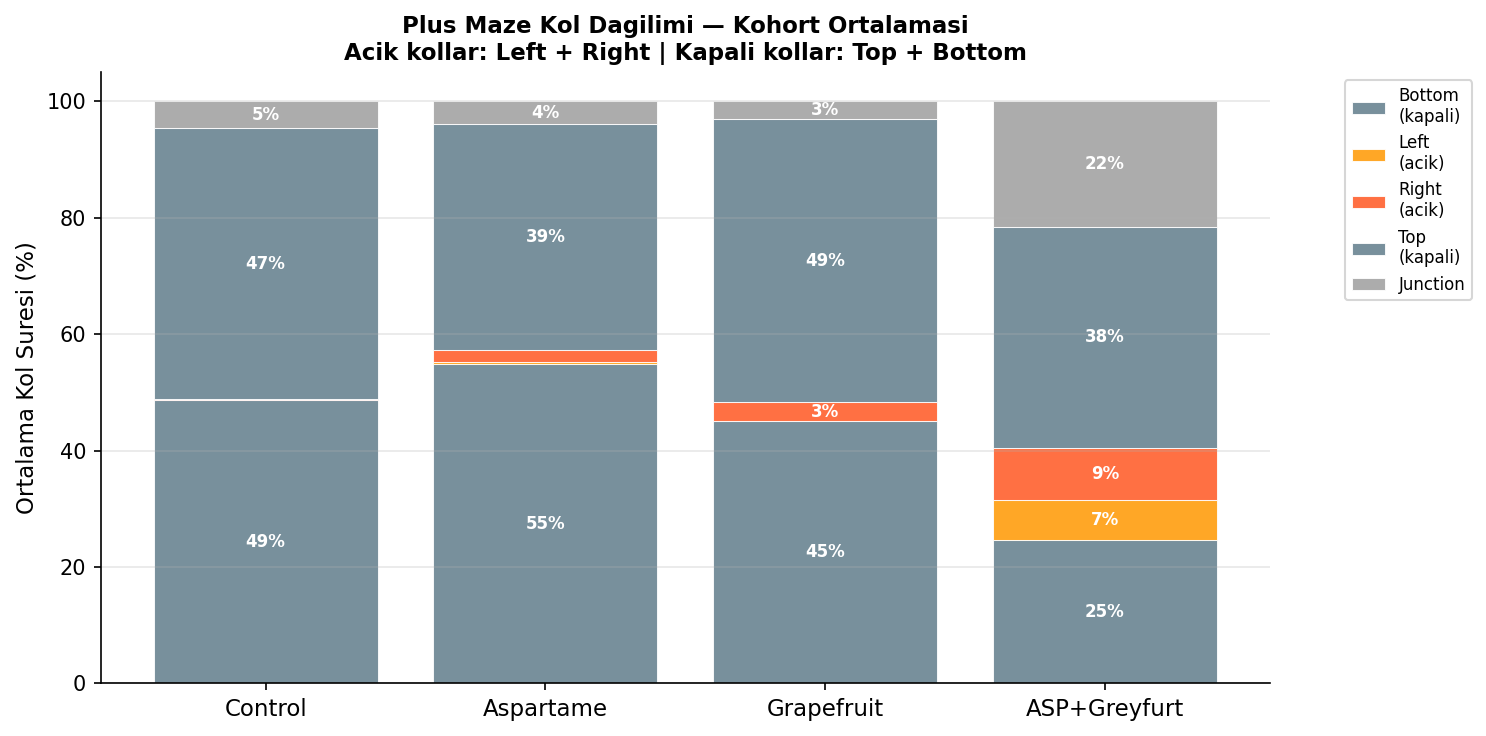
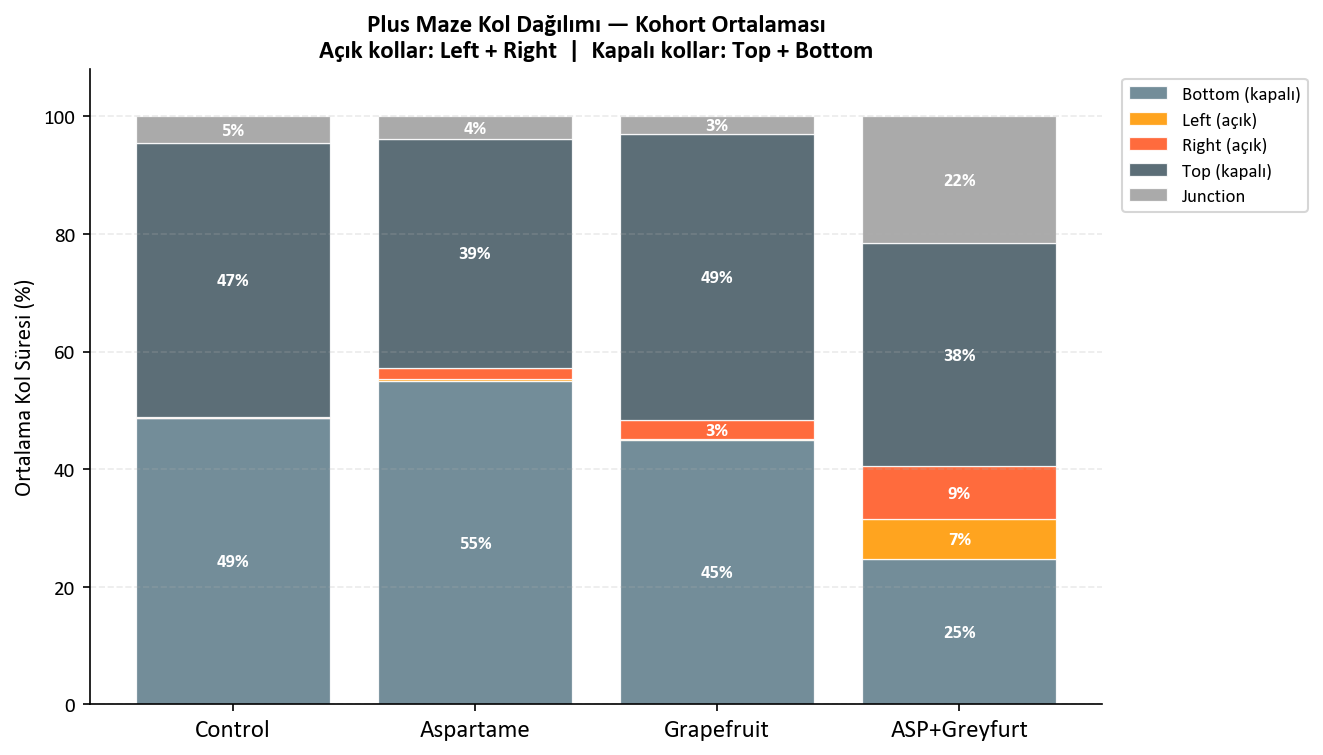
fix(plots): fix Turkish character encoding and legend overlap in EPM figures
Switch font to Calibri for full Unicode/Turkish support (ç ı ş ğ ü ö).
Fix legend-title overlap by moving cohort legend to figure bottom.
Correct all labels: Açık/Kapalı/Süresi/Girişi/Dağılımı/Kovaryat etc.

diff --git a/analysis/tmaze/plot_open_arm.py b/analysis/tmaze/plot_open_arm.py
@@ -1,19 +1,20 @@
+# -*- coding: utf-8 -*-
 """
 plot_open_arm.py
 ----------------
-EPM cohort karsilastirmasi gorsellerini uretir.
+EPM kohort karşılaştırması görsellerini üretir.
 
-Grafik 1 — Box + strip: pct_open_arm (acik kol % suresi) kohort bazinda
-Grafik 2 — Box + strip: pct_open_arm_entries (acik kol % girisi)
-Grafik 3 — Grouped bar: 4 kohort x 5 kol (bottom/left/right/top/junction) yuzdeleri
-Grafik 4 — Scatter: pct_open_arm vs total_entries (lokomotor kovariat)
+Grafik 1 — Box + strip: pct_open_arm (açık kol % süresi) kohort bazında
+Grafik 2 — Box + strip: pct_open_arm_entries (açık kol % girişi)
+Grafik 3 — Grouped bar: 4 kohort x 5 kol (bottom/left/right/top/junction) yüzdeleri
+Grafik 4 — Scatter: pct_open_arm vs total_entries (lokomotor kovaryat)
 
-Ciktilar:
+Çıktılar:
   reports/figures/epm_open_arm_by_cohort.png
   reports/figures/epm_arm_distribution.png
   reports/figures/epm_locomotor_covariate.png
 
-Kullanim:
+Kullanım:
   python analysis/tmaze/plot_open_arm.py
 """
 
@@ -25,6 +26,11 @@ import matplotlib.pyplot as plt
 import matplotlib.patches as mpatches
 import numpy as np
 import pandas as pd
+
+# ── Türkçe karakter desteği için Calibri ──────────────────────────────────────
+matplotlib.rcParams["font.family"]        = "Calibri"
+matplotlib.rcParams["axes.unicode_minus"] = False
+matplotlib.rcParams["figure.dpi"]         = 150
 
 ROOT     = pathlib.Path(__file__).resolve().parent.parent.parent
 DATA     = ROOT / "data" / "plus_maze_metrics_all.csv"
@@ -42,176 +48,185 @@ COHORT_COLORS = {
 
 
 def strip_jitter(ax, data_by_group, colors, x_positions, jitter=0.08):
-    """Her grubun noktalarini hafif kaydirarak ciz."""
     rng = np.random.default_rng(42)
     for xi, (grp, vals) in zip(x_positions, data_by_group.items()):
         jit = rng.uniform(-jitter, jitter, size=len(vals))
         ax.scatter(xi + jit, vals,
                    color=colors[grp], edgecolors="white",
-                   linewidths=0.6, s=60, zorder=5, alpha=0.9)
+                   linewidths=0.8, s=70, zorder=5, alpha=0.95)
 
 
 def p_stars(p: float) -> str:
-    if p < 0.001:
-        return "***"
-    if p < 0.01:
-        return "**"
-    if p < 0.05:
-        return "*"
-    if p < 0.10:
-        return "~"
+    if p < 0.001: return "***"
+    if p < 0.01:  return "**"
+    if p < 0.05:  return "*"
+    if p < 0.10:  return "~"
     return "ns"
 
 
-def add_significance_bar(ax, x1, x2, y, p, h=0.5):
-    """Iki grup arasina anlamlilik cubugu ekle."""
-    ax.plot([x1, x1, x2, x2], [y, y + h, y + h, y],
-            lw=1.2, color="black")
-    ax.text((x1 + x2) / 2, y + h + 0.1, p_stars(p),
-            ha="center", va="bottom", fontsize=11)
-
-
-# ─── Grafik 1+2: Open arm % suresi ve giris ───────────────────────────────────
+# ─── Grafik 1+2: Açık kol % süresi ve giriş ──────────────────────────────────
 
 def plot_open_arm_box():
     df = pd.read_csv(DATA)
     kw = pd.read_csv(KW_PATH).set_index("feature") if KW_PATH.exists() else None
 
     metrics = [
-        ("pct_open_arm",         "% Acik Kol Suresi",  "Acik kol (left + right)"),
-        ("pct_open_arm_entries", "% Acik Kol Girisi",  "Acik kol giriş / toplam giriş"),
+        ("pct_open_arm",
+         "% Açık Kol Süresi",
+         "Açık Kol Süresi (Left + Right)"),
+        ("pct_open_arm_entries",
+         "% Açık Kol Girişi",
+         "Açık Kol Girişi / Toplam Giriş"),
     ]
 
-    fig, axes = plt.subplots(1, 2, figsize=(12, 6))
+    fig, axes = plt.subplots(1, 2, figsize=(13, 6.5))
+    fig.subplots_adjust(top=0.87, bottom=0.16, left=0.08, right=0.97, wspace=0.32)
 
     for ax, (col, ylabel, title) in zip(axes, metrics):
         data_by_group = {
             g: df.loc[df["cohort"] == g, col].dropna().values
             for g in COHORT_ORDER if g in df["cohort"].values
         }
-        x_pos = list(range(len(data_by_group)))
+        x_pos  = list(range(len(data_by_group)))
         groups = list(data_by_group.keys())
 
-        # Boxplot
         bp = ax.boxplot(
             [data_by_group[g] for g in groups],
             positions=x_pos,
-            widths=0.45,
+            widths=0.48,
             patch_artist=True,
-            medianprops=dict(color="black", linewidth=2),
-            whiskerprops=dict(linewidth=1.2),
-            capprops=dict(linewidth=1.2),
+            medianprops=dict(color="black", linewidth=2.2),
+            whiskerprops=dict(linewidth=1.4),
+            capprops=dict(linewidth=1.4),
             flierprops=dict(marker="", linestyle="none"),
         )
         for patch, grp in zip(bp["boxes"], groups):
             patch.set_facecolor(COHORT_COLORS[grp])
-            patch.set_alpha(0.6)
+            patch.set_alpha(0.55)
 
         strip_jitter(ax, data_by_group, COHORT_COLORS, x_pos)
 
-        # p degeri annotation
         if kw is not None and col in kw.index:
             p_val = kw.loc[col, "p_permutation"]
             ep2   = kw.loc[col, "epsilon_sq"]
-            ax.set_title(
-                f"{title}\n"
-                f"KW p={p_val:.3f} {p_stars(p_val)}   "
-                f"ε²={ep2:.3f}",
-                fontsize=11, fontweight="bold"
+            subtitle = (
+                f"KW p = {p_val:.3f}  {p_stars(p_val)}     "
+                f"ε² = {ep2:.3f}"
             )
         else:
-            ax.set_title(title, fontsize=11, fontweight="bold")
+            subtitle = ""
 
+        ax.set_title(f"{title}\n{subtitle}", fontsize=12, fontweight="bold", pad=8)
         ax.set_xticks(x_pos)
-        ax.set_xticklabels(groups, fontsize=10)
+        ax.set_xticklabels(groups, fontsize=11)
         ax.set_ylabel(ylabel, fontsize=11)
         ax.set_ylim(bottom=-1)
-        ax.grid(axis="y", alpha=0.3)
+        ax.grid(axis="y", alpha=0.25, linestyle="--")
         ax.spines[["top", "right"]].set_visible(False)
 
-        # Referans cizgisi: chance = 50% (eger tum kollar esit kullanilsaydi)
-        ax.axhline(50 / 2, color="gray", linestyle="--",
-                   linewidth=1, alpha=0.5, label="Esit kol kullanimi (50%)")
+        ax.axhline(25, color="#888888", linestyle="--",
+                   linewidth=1, alpha=0.6, label="Eşit kol kullanımı (25%)")
+        ax.legend(fontsize=8, frameon=False, loc="upper left")
 
+    # Kohort legend — figürün altında, x eksen etiketlerinin altında
     legend_patches = [
-        mpatches.Patch(facecolor=COHORT_COLORS[g], alpha=0.7, label=g)
+        mpatches.Patch(facecolor=COHORT_COLORS[g], alpha=0.80, label=g)
         for g in COHORT_ORDER
     ]
-    fig.legend(handles=legend_patches, loc="upper center",
-               ncol=4, fontsize=9, frameon=False, bbox_to_anchor=(0.5, 1.02))
+    fig.legend(
+        handles=legend_patches,
+        loc="lower center",
+        ncol=4,
+        fontsize=11,
+        frameon=False,
+        bbox_to_anchor=(0.52, 0.01),
+    )
 
     fig.suptitle(
-        "Plus Maze — EPM Acik Kol Analizi (n=3/grup)\n"
-        "Dikey kollar = kapali kol | Yatay kollar = acik kol",
-        fontsize=13, fontweight="bold", y=1.05
+        "Plus Maze — EPM Açık Kol Analizi  (n = 3 / grup)\n"
+        "Dikey kollar = kapalı kol  |  Yatay kollar = açık kol",
+        fontsize=13, fontweight="bold", y=0.99,
     )
-    plt.tight_layout()
+
     out = FIGS / "epm_open_arm_by_cohort.png"
     fig.savefig(out, dpi=150, bbox_inches="tight")
     plt.close(fig)
     print(f"[ok] {out}")
 
 
-# ─── Grafik 3: Kol dagilimi stacked bar ───────────────────────────────────────
+# ─── Grafik 3: Kol dağılımı stacked bar ──────────────────────────────────────
 
 def plot_arm_distribution():
     df = pd.read_csv(DATA)
-    arm_cols = ["pct_time_bottom", "pct_time_left",
-                "pct_time_right", "pct_time_top", "pct_time_junction"]
-    arm_labels = ["Bottom\n(kapali)", "Left\n(acik)", "Right\n(acik)",
-                  "Top\n(kapali)", "Junction"]
-    arm_colors = ["#607D8B", "#FF9800", "#FF5722", "#607D8B", "#9E9E9E"]
+    arm_cols   = ["pct_time_bottom", "pct_time_left",
+                  "pct_time_right",  "pct_time_top", "pct_time_junction"]
+    arm_labels = [
+        "Bottom (kapalı)",
+        "Left (açık)",
+        "Right (açık)",
+        "Top (kapalı)",
+        "Junction",
+    ]
+    arm_colors = ["#607D8B", "#FF9800", "#FF5722", "#455A64", "#9E9E9E"]
 
     means = (df.groupby("cohort")[arm_cols].mean()
                .reindex(COHORT_ORDER)
                .reset_index())
 
-    fig, ax = plt.subplots(figsize=(10, 5))
-    x = np.arange(len(COHORT_ORDER))
+    fig, ax = plt.subplots(figsize=(10, 5.5))
+    fig.subplots_adjust(right=0.80)
+
+    x      = np.arange(len(COHORT_ORDER))
     bottom = np.zeros(len(COHORT_ORDER))
 
     for col, label, color in zip(arm_cols, arm_labels, arm_colors):
         vals = means[col].values
         ax.bar(x, vals, bottom=bottom, label=label,
-               color=color, edgecolor="white", linewidth=0.5, alpha=0.85)
+               color=color, edgecolor="white", linewidth=0.6, alpha=0.88)
         for xi, (v, b) in enumerate(zip(vals, bottom)):
             if v > 3:
                 ax.text(xi, b + v / 2, f"{v:.0f}%",
-                        ha="center", va="center", fontsize=8,
+                        ha="center", va="center", fontsize=9,
                         color="white", fontweight="bold")
         bottom += vals
 
     ax.set_xticks(x)
-    ax.set_xticklabels(COHORT_ORDER, fontsize=11)
-    ax.set_ylabel("Ortalama Kol Suresi (%)", fontsize=11)
-    ax.set_ylim(0, 105)
-    ax.set_title("Plus Maze Kol Dagilimi — Kohort Ortalamasi\n"
-                 "Acik kollar: Left + Right | Kapali kollar: Top + Bottom",
-                 fontsize=11, fontweight="bold")
-    ax.legend(loc="upper right", fontsize=8, frameon=True,
-              bbox_to_anchor=(1.18, 1))
-    ax.grid(axis="y", alpha=0.3)
+    ax.set_xticklabels(COHORT_ORDER, fontsize=12)
+    ax.set_ylabel("Ortalama Kol Süresi (%)", fontsize=11)
+    ax.set_ylim(0, 108)
+    ax.set_title(
+        "Plus Maze Kol Dağılımı — Kohort Ortalaması\n"
+        "Açık kollar: Left + Right  |  Kapalı kollar: Top + Bottom",
+        fontsize=12, fontweight="bold",
+    )
+    ax.legend(
+        loc="upper left",
+        fontsize=9,
+        frameon=True,
+        bbox_to_anchor=(1.01, 1.0),
+    )
+    ax.grid(axis="y", alpha=0.25, linestyle="--")
     ax.spines[["top", "right"]].set_visible(False)
 
-    plt.tight_layout()
     out = FIGS / "epm_arm_distribution.png"
     fig.savefig(out, dpi=150, bbox_inches="tight")
     plt.close(fig)
     print(f"[ok] {out}")
 
 
-# ─── Grafik 4: Scatter — acik kol vs lokomotor ────────────────────────────────
+# ─── Grafik 4: Scatter — açık kol vs lokomotor ───────────────────────────────
 
 def plot_locomotor_covariate():
     df = pd.read_csv(DATA)
 
-    fig, axes = plt.subplots(1, 2, figsize=(11, 5))
+    fig, axes = plt.subplots(1, 2, figsize=(12, 5.5))
+    fig.subplots_adjust(top=0.80, bottom=0.12, wspace=0.30)
 
     pairs = [
         ("total_entries",   "pct_open_arm",
-         "Toplam Giris (lokomotor)", "% Acik Kol Suresi"),
+         "Toplam Giriş (Lokomotor Kovaryat)", "% Açık Kol Süresi"),
         ("mean_speed_px_s", "pct_open_arm",
-         "Ortalama Hiz (px/s)",      "% Acik Kol Suresi"),
+         "Ortalama Hız (px/s)",               "% Açık Kol Süresi"),
     ]
 
     for ax, (xcol, ycol, xlabel, ylabel) in zip(axes, pairs):
@@ -221,35 +236,47 @@ def plot_locomotor_covariate():
                 continue
             ax.scatter(row[xcol], row[ycol],
                        color=COHORT_COLORS[grp],
-                       s=90, edgecolors="white", linewidths=0.8,
-                       zorder=4, alpha=0.9)
-            ax.annotate(row["subject_id"].replace("PlusMaze", ""),
-                        (row[xcol], row[ycol]),
-                        textcoords="offset points", xytext=(5, 3),
-                        fontsize=7, color="gray")
+                       s=95, edgecolors="white", linewidths=0.9,
+                       zorder=4, alpha=0.92)
+            label_txt = str(row["subject_id"]).replace("PlusMaze", "")
+            ax.annotate(
+                label_txt,
+                (row[xcol], row[ycol]),
+                textcoords="offset points", xytext=(6, 3),
+                fontsize=8, color="#555555",
+            )
 
-        # Pearson r
         valid = df[[xcol, ycol]].dropna()
         if len(valid) > 2:
             from scipy.stats import pearsonr
             r, pval = pearsonr(valid[xcol], valid[ycol])
-            ax.set_title(f"r = {r:.2f}  p = {pval:.3f}", fontsize=10)
+            stars = p_stars(pval)
+            ax.set_title(
+                f"Pearson  r = {r:.2f}   p = {pval:.3f}  {stars}",
+                fontsize=11,
+            )
 
         ax.set_xlabel(xlabel, fontsize=10)
         ax.set_ylabel(ylabel, fontsize=10)
-        ax.grid(alpha=0.3)
+        ax.grid(alpha=0.25, linestyle="--")
         ax.spines[["top", "right"]].set_visible(False)
 
     legend_patches = [
-        mpatches.Patch(facecolor=COHORT_COLORS[g], alpha=0.8, label=g)
+        mpatches.Patch(facecolor=COHORT_COLORS[g], alpha=0.85, label=g)
         for g in COHORT_ORDER
     ]
-    fig.legend(handles=legend_patches, loc="upper center",
-               ncol=4, fontsize=9, frameon=False, bbox_to_anchor=(0.5, 1.02))
-    fig.suptitle("Acik Kol Suresi vs Lokomotor Kovariat\n"
-                 "(Cruz 1994: saf anksiyolitik = acik kol artisi + sabit lokomotor)",
-                 fontsize=11, fontweight="bold", y=1.06)
-    plt.tight_layout()
+    fig.legend(
+        handles=legend_patches,
+        loc="upper center",
+        ncol=4, fontsize=10, frameon=False,
+        bbox_to_anchor=(0.5, 0.98),
+    )
+    fig.suptitle(
+        "Açık Kol Süresi vs Lokomotor Kovaryat\n"
+        "(Cruz 1994: saf anksiyolitik etki = açık kol ↑ + lokomotor sabit)",
+        fontsize=12, fontweight="bold", y=1.04,
+    )
+
     out = FIGS / "epm_locomotor_covariate.png"
     fig.savefig(out, dpi=150, bbox_inches="tight")
     plt.close(fig)
@@ -259,8 +286,8 @@ def plot_locomotor_covariate():
 # ─── main ─────────────────────────────────────────────────────────────────────
 
 if __name__ == "__main__":
-    print("EPM grafikleri olusturuluyor...\n")
+    print("EPM grafikleri oluşturuluyor...\n")
     plot_open_arm_box()
     plot_arm_distribution()
     plot_locomotor_covariate()
-    print("\n[done] tum grafikleri reports/figures/ altinda")
+    print("\n[done] tüm grafikler reports/figures/ altında")
